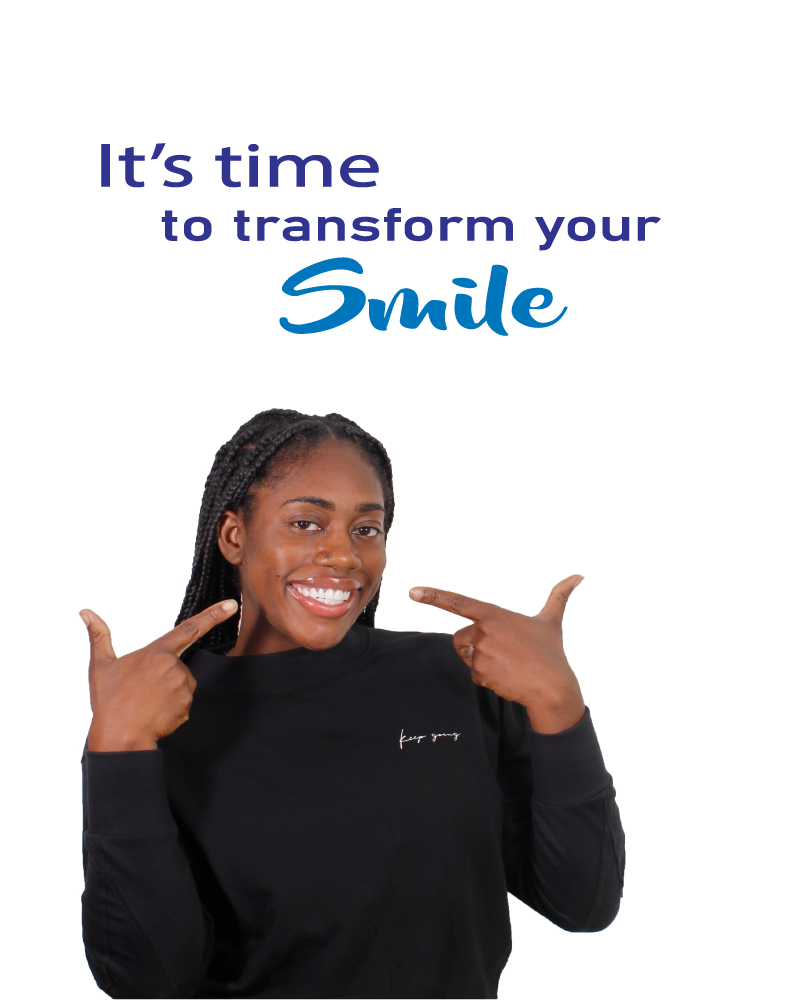
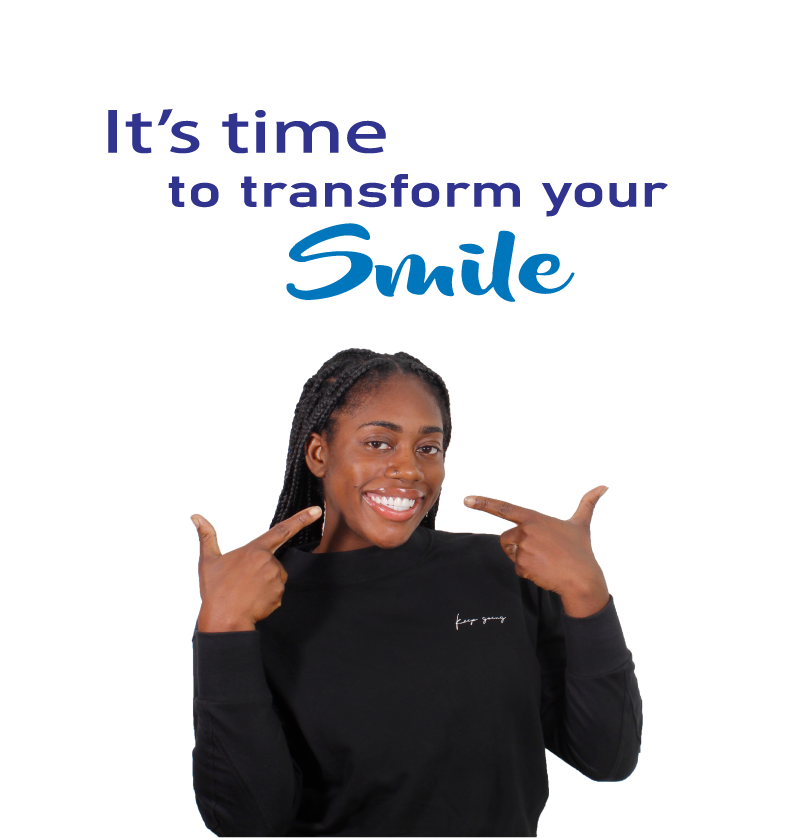
slider

diff --git a/index.html b/index.html
@@ -76,15 +76,36 @@
     <div class="slider">
         <div class="carousel slide" data-bs-ride="carousel" id="carouselExampleSlidesOnly">
             <div class="carousel-inner">
-                <div class="carousel-item active"><img alt="..." class="d-block w-100" src="./estilos/imagenes/banner1.png"/>
+                <div class="carousel-item  active"><img alt="..." class="d-block w-100" src="./estilos/imagenes/banner1.png"/>
                 </div>
 
-                <div class="carousel-item"><img alt="..." class="d-block w-100" src="./estilos/imagenes/banner2.png" />
+                <div class="carousel-item " ><img alt="..." class="d-block w-100" src="./estilos/imagenes/banner2.png" />
                 </div>
+
+                
                 <!-- <div class="carousel-item"><img alt="..." class="d-block w-100" src="./estilos/imagenes/banner3.png" /></div> -->
             </div>
         </div>
     </div>
+    <div class="slidermobil">
+        <div class="carousel slide" data-bs-ride="carousel" id="carouselExampleSlidesOnly">
+            <div class="carousel-inner">
+                <div class="carousel-item active "><img alt="..." class="d-block w-100 " src="./estilos/imagenes/banner1mobil.png"/>
+                </div>
+            
+                <div class="carousel-item " ><img alt="..." class="d-block w-100 " src="./estilos/imagenes/banner2mobil.png" />
+                </div>
+
+                
+                <!-- <div class="carousel-item"><img alt="..." class="d-block w-100" src="./estilos/imagenes/banner3.png" /></div> -->
+            </div>
+        </div>
+    </div>
+
+
+
+
+    
     <!-- tarjetas circulares  -->
 
     <div class="tarjetas">

diff --git a/estilos/style.css b/estilos/style.css
@@ -85,6 +85,20 @@ nav {
     height: auto;
     margin-top: 7vh;
 }
+.slidermobil{
+    display: none;
+}
+@media (max-width:600px){
+    .slider{
+        display: none;
+    }
+    .slidermobil{
+        display: block;
+        width: 100%;
+        height: auto;
+        margin-top: 7vh;
+    }
+}
 
 .carousel {
     height: 100%;
